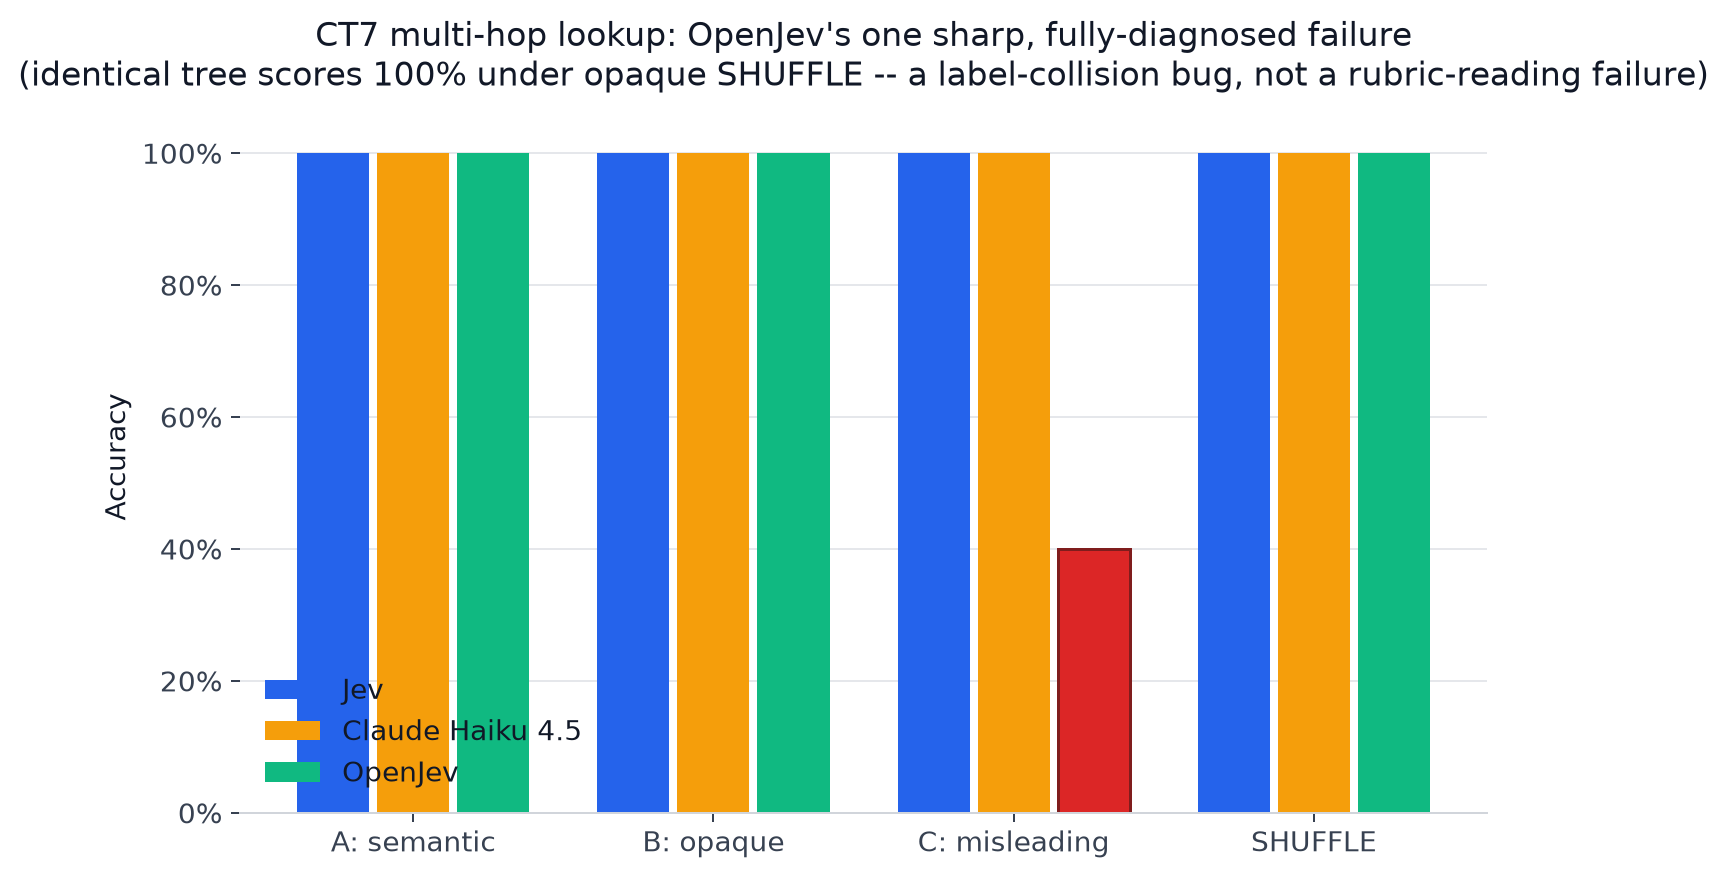
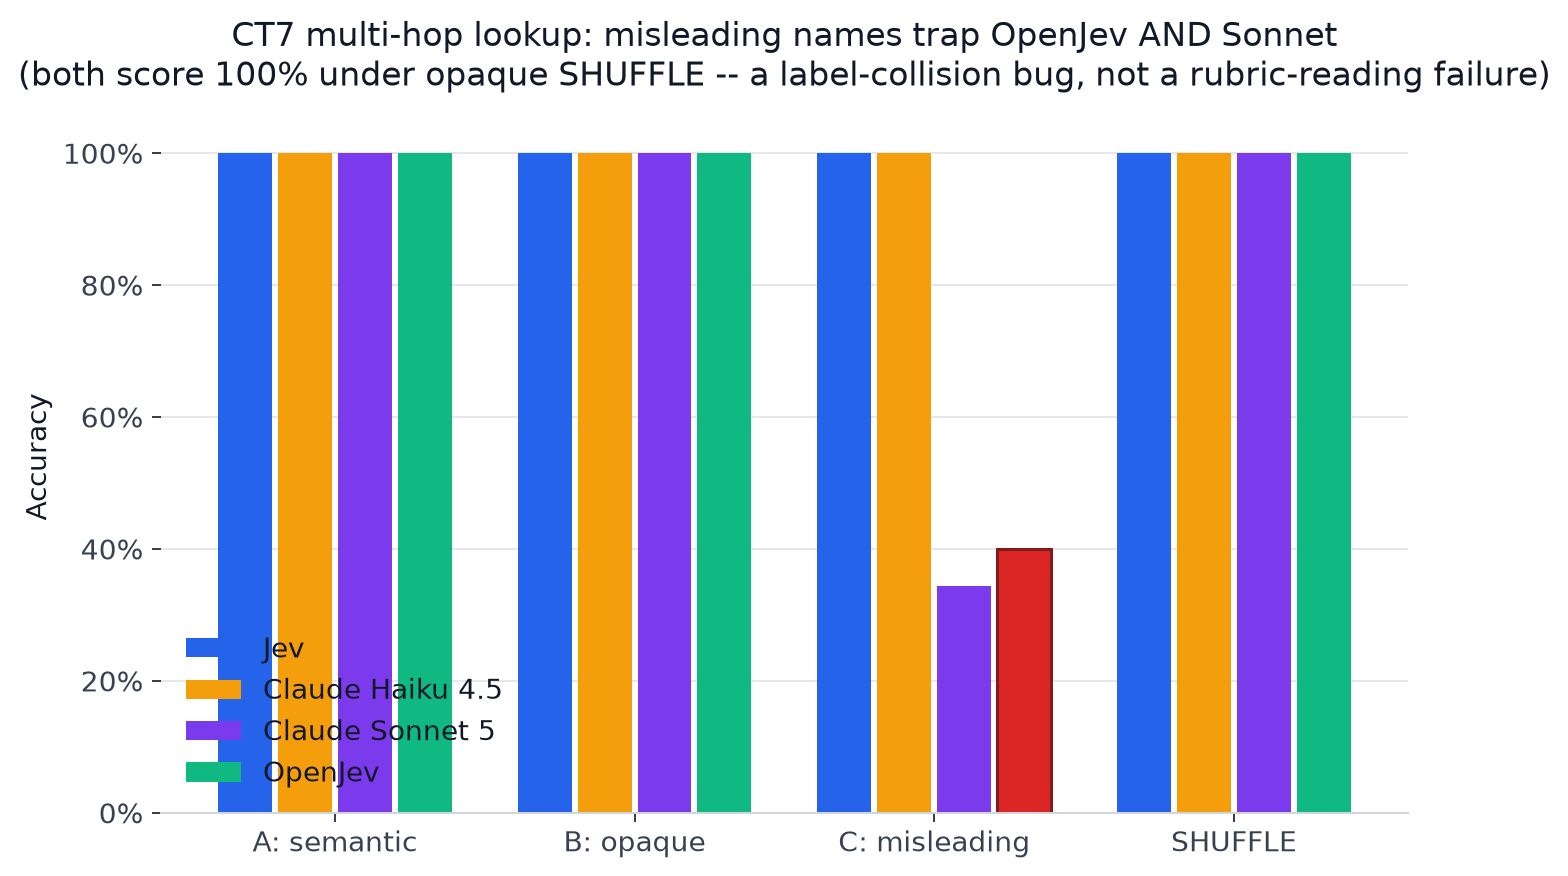
Fix chart-quality issues surfaced by adding a 4th arm
- Sonnet's palette color collided with chart 4's hardcoded red used to
  flag OpenJev's CT7 Condition-C collapse -- switched Sonnet to violet
  (#7C3AED) so the two independent, now-both-real collapses (OpenJev
  40%, Sonnet 34%) are visually distinguishable, not read as one.
- Widened chart 3 (CT5 arithmetic) and chart 8 (total cost) from
  figsize (6,5) to (7.5,5) -- 4 arm labels no longer collide.
- chart_accuracy_vs_cost: Sonnet and Haiku land close together on both
  axes; alternate label placement (Sonnet below its point) so the two
  annotations don't overlap.
- Retitled chart 4 and chart 6 now that Sonnet also shows the CT7
  Condition-C collapse and the whole-exam bulk-grading degradation,
  respectively -- these are no longer OpenJev-only findings.
- Regenerated all 10 charts with real Sonnet data.

diff --git a/scripts/generate_charts.py b/scripts/generate_charts.py
@@ -42,7 +42,8 @@ CHARTS_DIR = Path(__file__).resolve().parent.parent / "charts"
 COLOR = {
     "jev": "#2563EB",       # blue -- the subject
     "haiku": "#F59E0B",     # amber -- the reference LLM
-    "sonnet": "#DC2626",    # red -- the stronger reference LLM
+    "sonnet": "#7C3AED",    # violet -- the stronger reference LLM (red is reserved
+                            # for chart 4's OpenJev Condition-C collapse highlight)
     "openjev": "#10B981",   # green -- the free fallback
     "nli-bart": "#9CA3AF",  # grey -- baseline
     "emb-bge": "#6B7280",   # darker grey -- baseline
@@ -173,14 +174,14 @@ def chart_ct5_arithmetic() -> None:
     arms = ["jev", "haiku", "sonnet", "openjev"]
     manifest = _manifest_index()
 
-    fig, ax = plt.subplots(figsize=(6, 5))
+    fig, ax = plt.subplots(figsize=(7.5, 5))
     error_rates = []
     for arm in arms:
         recs = [r for r in effective_records(arm) if r.clause_type == 5]
         correct = [r.predicted_folder == _truth_for(r, manifest[r.doc_id]) for r in recs]
         error_rates.append(1 - sum(correct) / len(correct))
 
-    bars = ax.bar([LABEL[a] for a in arms], error_rates, color=[COLOR[a] for a in arms], width=0.55)
+    bars = ax.bar([LABEL[a] for a in arms], error_rates, color=[COLOR[a] for a in arms], width=0.6)
     for b, v in zip(bars, error_rates):
         ax.annotate(f"{v:.1%}", (b.get_x() + b.get_width() / 2, v), ha="center", va="bottom", fontsize=10)
     _pct(ax)
@@ -191,7 +192,8 @@ def chart_ct5_arithmetic() -> None:
 
 
 # ---------------------------------------------------------------------------
-# Chart 4: CT7 multi-hop lookup by condition -- OpenJev's isolated collapse
+# Chart 4: CT7 multi-hop lookup by condition -- OpenJev's and Sonnet's
+# isolated Condition-C collapse (misleading-but-plausible folder names)
 # ---------------------------------------------------------------------------
 def chart_ct7_collapse() -> None:
     arms = ["jev", "haiku", "sonnet", "openjev"]
@@ -219,7 +221,7 @@ def chart_ct7_collapse() -> None:
     ax.set_ylim(0, 1.08)
     _pct(ax)
     ax.set_ylabel("Accuracy")
-    ax.set_title("CT7 multi-hop lookup: OpenJev's one sharp, fully-diagnosed failure\n(identical tree scores 100% under opaque SHUFFLE -- a label-collision bug, not a rubric-reading failure)")
+    ax.set_title("CT7 multi-hop lookup: misleading names trap OpenJev AND Sonnet\n(both score 100% under opaque SHUFFLE -- a label-collision bug, not a rubric-reading failure)")
     ax.legend(frameon=False, loc="lower left")
     _style_axes(ax)
     _save(fig, "04_ct7_openjev_collapse.png")
@@ -281,7 +283,7 @@ def chart_ct10_chained_vs_whole() -> None:
     ax.set_ylabel("Grading exact-match rate (avg of with/without key)")
     ax.set_title(
         "CT10: bulk-grading accuracy by architecture\n"
-        "Jev's native multi-question call doesn't degrade in bulk mode -- Haiku/OpenJev both do",
+        "Jev's native multi-question call doesn't degrade in bulk mode -- every LLM arm does",
         fontsize=13,
     )
     ax.legend(frameon=False, loc="lower right")
@@ -355,14 +357,14 @@ def chart_cost() -> None:
     arms = ["jev", "haiku", "sonnet", "openjev"]
     vals = [max(totals[a], 0.001) for a in arms]  # floor for log scale visibility
 
-    fig, ax = plt.subplots(figsize=(6, 5))
-    bars = ax.bar([LABEL[a] for a in arms], vals, color=[COLOR[a] for a in arms], width=0.55)
+    fig, ax = plt.subplots(figsize=(7.5, 5))
+    bars = ax.bar([LABEL[a] for a in arms], vals, color=[COLOR[a] for a in arms], width=0.6)
     for b, arm in zip(bars, arms):
         label = f"${totals[arm]:.2f}" if totals[arm] >= 0.01 else "$0.00"
         ax.annotate(label, (b.get_x() + b.get_width() / 2, b.get_height()), ha="center", va="bottom", fontsize=10)
     ax.set_yscale("log")
     ax.set_ylabel("Total spend, whole benchmark (log scale, USD)")
-    ax.set_title("Cost across every test (CT1-10 combined)\nJev + OpenJev together cost less than 3% of Haiku's spend")
+    ax.set_title("Cost across every test (CT1-10 combined)\nJev + OpenJev together cost under 1% of Haiku + Sonnet's combined spend")
     _style_axes(ax)
     _save(fig, "08_cost.png")
 
@@ -440,13 +442,21 @@ def chart_accuracy_vs_cost() -> None:
     fig, ax = plt.subplots(figsize=(7.5, 6))
     for arm in arms:
         x_val = max(totals[arm], 0.001)
+        # Haiku and Sonnet land close together on both axes (similar accuracy,
+        # similar log-scale cost) -- push Sonnet's label below its point so
+        # the two annotations don't overlap; everyone else keeps the default
+        # above-point placement (Jev and OpenJev are isolated enough not to
+        # need it, and OpenJev sits too close to the axis for a below offset).
+        y_offset = -34 if arm == "sonnet" else 22
+        va = "bottom" if y_offset > 0 else "top"
         ax.scatter([x_val], [accs[arm]], s=420, color=COLOR[arm], zorder=3, edgecolor="white", linewidth=1.5)
         ax.annotate(
             f"{LABEL[arm]}\n{accs[arm]:.1%} accuracy, ${totals[arm]:.2f} total",
             (x_val, accs[arm]),
             textcoords="offset points",
-            xytext=(0, 22),
+            xytext=(0, y_offset),
             ha="center",
+            va=va,
             fontsize=10,
             fontweight="bold",
         )
